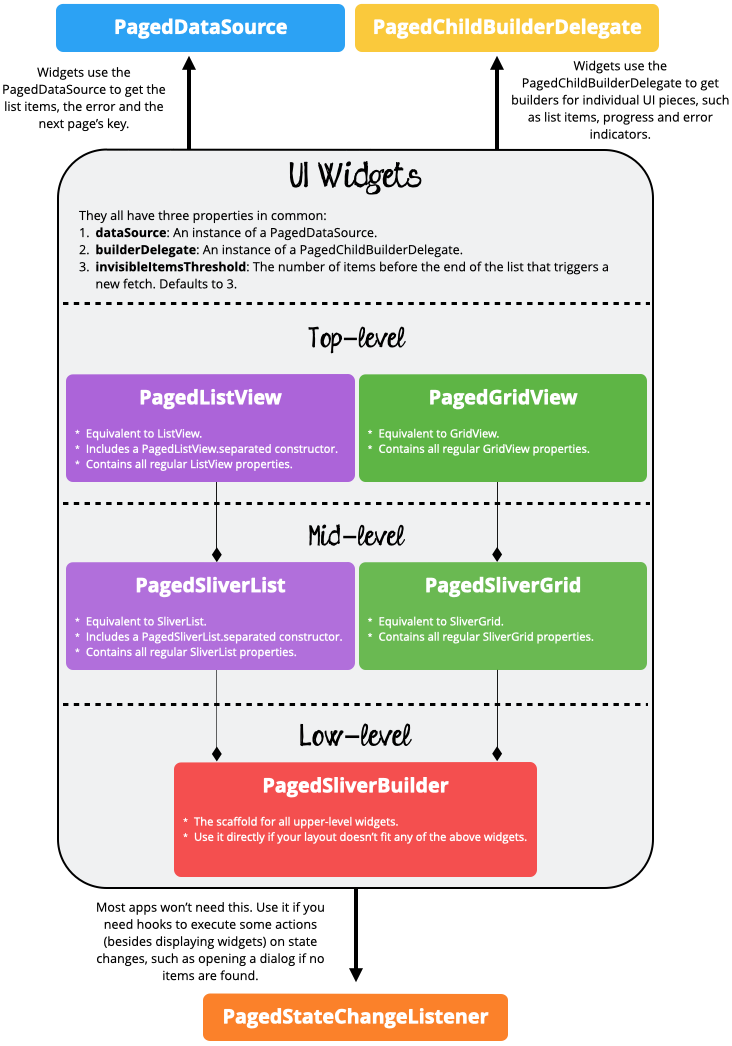
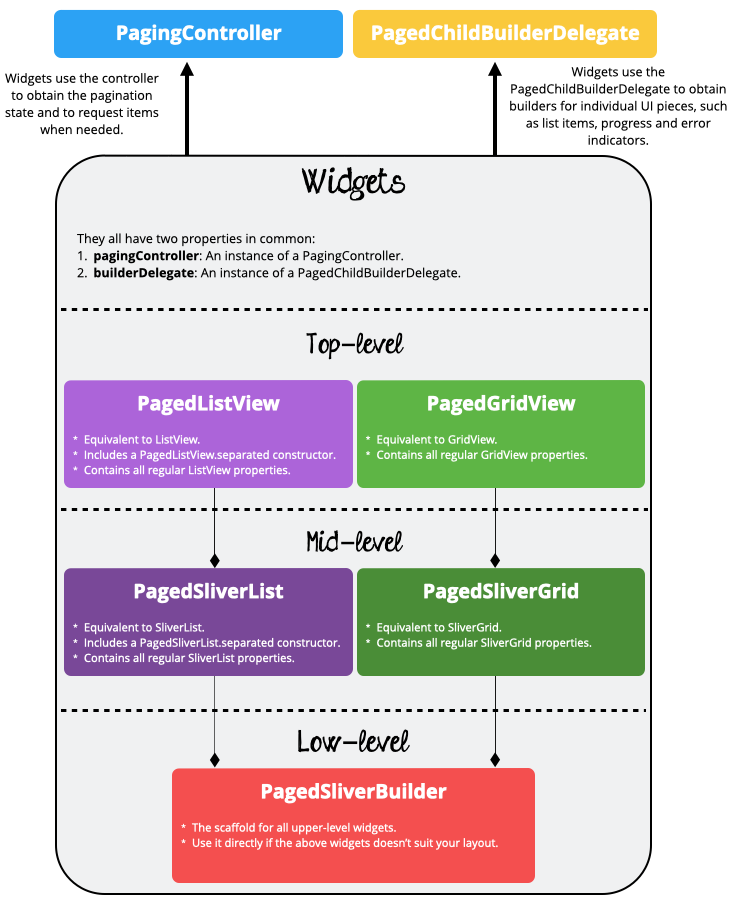
Change API diagram.

diff --git a/lib/src/ui/paged_list_view.dart b/lib/src/ui/paged_list_view.dart
@@ -16,7 +16,7 @@ class PagedListView<PageKeyType, ItemType> extends BoxScrollView {
     @required this.pagingController,
     @required this.builderDelegate,
     // Corresponds to [ScrollView.controller].
-    ScrollController controller,
+    ScrollController scrollController,
     // Corresponds to [ScrollView.scrollDirection].
     Axis scrollDirection = Axis.vertical,
     // Corresponds to [ScrollView.reverse].
@@ -43,7 +43,7 @@ class PagedListView<PageKeyType, ItemType> extends BoxScrollView {
           key: key,
           scrollDirection: scrollDirection,
           reverse: reverse,
-          controller: controller,
+          controller: scrollController,
           primary: primary,
           physics: physics,
           shrinkWrap: shrinkWrap,
@@ -56,7 +56,7 @@ class PagedListView<PageKeyType, ItemType> extends BoxScrollView {
     @required this.builderDelegate,
     @required this.separatorBuilder,
     // Corresponds to [ScrollView.controller].
-    ScrollController controller,
+    ScrollController scrollController,
     // Corresponds to [ScrollView.scrollDirection].
     Axis scrollDirection = Axis.vertical,
     // Corresponds to [ScrollView.reverse].
@@ -83,7 +83,7 @@ class PagedListView<PageKeyType, ItemType> extends BoxScrollView {
           key: key,
           scrollDirection: scrollDirection,
           reverse: reverse,
-          controller: controller,
+          controller: scrollController,
           primary: primary,
           physics: physics,
           shrinkWrap: shrinkWrap,

diff --git a/example/lib/presentation/search_grid_bloc/character_sliver_grid.dart b/example/lib/presentation/search_grid_bloc/character_sliver_grid.dart
@@ -25,10 +25,10 @@ class _CharacterSliverGridState extends State<CharacterSliverGrid> {
       _bloc.onPageRequestSink.add(pageKey);
     });
 
-    // We could have used StreamBuilder, but that would unnecessarily recreate
+    // We could've used StreamBuilder, but that would unnecessarily recreate
     // the entire [PagedSliverGrid] every time the state changes.
     // Instead, handling the subscription ourselves and updating only the
-    // _dataSource is more efficient.
+    // _pagingController is more efficient.
     _blocListingStateSubscription =
         _bloc.onNewListingState.listen((listingState) {
       _pagingController.value = PagingState(
